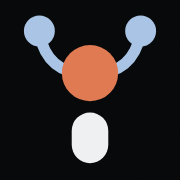
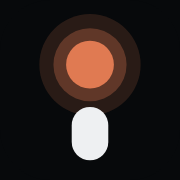
Loggan Glöd och tre teman (mörk, ljus, hacker) med temaväljare
- Loggan S2: i-pricken glöder, Nunito i ordbilden, färger från temat.
- Teman som CSS-variabler, satta före första målningen; valet sparas,
  annars följer sajten systemets ljust/mörkt. ADR 0009.

Claude-Session: https://claude.ai/code/session_01DCLyQTrk6wkc1PmiYpRkzH

Changed region(s): [[0.1111, 0.0556, 0.8889, 0.7222], [0.3889, 0.8056, 0.6111, 0.9167]]

diff --git a/apps/web/src/styles/global.css b/apps/web/src/styles/global.css
@@ -4,7 +4,9 @@
 @import '@fontsource/jetbrains-mono/400.css';
 
 /* Layout: en smal läskolumn (~68 tecken) under en filmisk 2,39:1-yta.
-   Samma mörka, kalla värld som filmen – ett varmt terrakotta används sparsamt. */
+   Tre teman (data-theme på <html>, sätts av ett skript i <head> före första målningen):
+   mörk (standard, samma kalla värld som filmen), ljus och hacker (grönt på svart, allt i mono).
+   Filmen, modulerna och spelen behåller sin mörka bildyta i alla teman, som en bioduk. */
 :root {
   color-scheme: dark;
   --bg: #07090b;
@@ -23,6 +25,43 @@
   --step-1: 1.25rem;
   --step-2: 1.6rem;
   --step-3: clamp(2rem, 5vw, 3.2rem);
+  --logo-ink: #eef0f2;
+  --logo-accent: #e07a52;
+  --logo-word: #a9c4e4;
+}
+:root[data-theme='ljus'] {
+  color-scheme: light;
+  --bg: #f6f3ee;
+  --surface: #ffffff;
+  --line: #e0dad0;
+  --ink: #1b2128;
+  --dim: #5a6470;
+  --cold: #355d8c;
+  --warm: #b4532f;
+  --logo-ink: #1b2128;
+  --logo-accent: #e07a52;
+  --logo-word: #355d8c;
+}
+:root[data-theme='hacker'] {
+  color-scheme: dark;
+  --bg: #020604;
+  --surface: #06110a;
+  --line: #123a1f;
+  --ink: #b6ffc8;
+  --dim: #4cc06c;
+  --cold: #3dff7f;
+  --warm: #ffb02e;
+  --font-sans: 'JetBrains Mono', 'IBM Plex Mono', ui-monospace, monospace;
+  --logo-ink: #b6ffc8;
+  --logo-accent: #3dff7f;
+  --logo-word: #3dff7f;
+}
+:root[data-theme='hacker'] body {
+  text-shadow: 0 0 6px rgba(61, 255, 127, 0.18);
+}
+:root[data-theme='hacker'] ::selection {
+  background: #3dff7f;
+  color: #020604;
 }
 
 * {

diff --git a/docs/adr/0009-teman.md b/docs/adr/0009-teman.md
@@ -1,0 +1,25 @@
+# 0009 – Tre teman: mörk, ljus och hacker
+
+- **Status:** beslutad
+- **Datum:** 2026-10-07
+
+## Sammanhang
+
+Sajten var bara mörk, som filmen. Alla besökare vill inte ha det, och skolor och dagsljus gynnar ett ljust tema.
+
+## Beslut
+
+- Tre teman sätts med `data-theme` på `<html>`: `mork` (standard), `ljus` och `hacker` (grönt på svart, allt i mono).
+  Färgerna är CSS-variabler i `apps/web/src/styles/global.css`, även loggans (`--logo-ink`, `--logo-accent`, `--logo-word`).
+- Ett litet skript i `<head>` (Base.astro) sätter temat före första målningen. Det använder sparat val
+  (`localStorage['ns-theme']`), och annars systemets ljust/mörkt. Knappen `ThemeToggle.astro` växlar
+  mörk → ljus → hacker och sparar valet.
+- Filmen, modulspelaren och spelen behåller sin mörka bildyta i alla teman, som en bioduk. Deras scener
+  ritar med motorns fasta palett.
+
+## Konsekvenser
+
+- Ny sidstil ska bara använda variablerna (`--bg`, `--surface`, `--line`, `--ink`, `--dim`, `--cold`, `--warm`),
+  aldrig hårdkodade färger.
+- Om modulernas scener ska följa temat senare behöver `PALETTE` i `engine/module/canvas.ts` läsas från temat.
+  Det är inte gjort.

diff --git a/docs/adr/0008-namn-ilearnai.md b/docs/adr/0008-namn-ilearnai.md
@@ -11,8 +11,8 @@ besökare, sökmotorer och AI-modeller.
 ## Beslut
 
 - Namn **iLearnAI**, domän **ilearnai.se**. Kortfilmen heter fortfarande NÄSTA STEG, och paketen `@nastasteg/*`.
-- Logga: märket är ett gement ”i” vars prick är en neuron (orange) med två mjukt böjda ingångar (ljusblå).
-  Ordbilden är satt i det rundade typsnittet Nunito 800 (”mjuk neuron”, S1 på designytan). Filer i
+- Logga: märket är ett gement ”i” vars prick glöder i mjuka ringar (”Glöd”, S2 på designytan).
+  Ordbilden är satt i det rundade typsnittet Nunito 800. Färgerna följer temat (ADR 0009). Filer i
   `apps/web/public`: `mark.svg`, `logo.svg`, `favicon.svg`, `apple-touch-icon.png` och delningsbilden `og.png`
   (1200 × 630). I sidhuvudet ritas loggan av `components/Logo.astro` i sajtens eget typsnitt.
 - Grundaren (Saman Akbarian) och sajtens fakta ligger i `SITE` (`apps/web/src/lib/site.ts`). De syns på

diff --git a/docs/DEVLOG.md b/docs/DEVLOG.md
@@ -5,6 +5,23 @@ Nyaste överst. En post per arbetspass. Skriv för nästa agent: **vad**, **varf
 
 ---
 
+## 2026-10-07 (7) – Loggan Glöd och tre teman
+
+**Vad**
+
+- Loggan är ”Glöd” (S2): i-pricken med två mjuka ringar och Nunito i ordbilden. Färgerna i `Logo.astro` kommer från
+  temat. Mark, favicon, logo.svg, apple-touch-icon och og.png är omgjorda.
+- Teman (ADR 0009): `mork`, `ljus` och `hacker` som CSS-variabler. Ett inline-skript i `<head>` sätter temat före
+  första målningen, och knappen `ThemeToggle.astro` växlar och sparar. På mobil ligger knappen bredvid loggan och
+  menyn på raden under.
+
+**Fällor**
+
+- Inline-skriptet i Base.astro lintas: `let`/`const` och `catch {}` med kommentar, annars blir `pnpm check` rött.
+- Filmen, modulerna och spelen är alltid mörka. Det är avsiktligt (ADR 0009).
+
+---
+
 ## 2026-10-07 (6) – Mjukare logga
 
 **Vad**

diff --git a/docs/STATUS.md b/docs/STATUS.md
@@ -40,7 +40,8 @@ _Uppdateras i slutet av varje arbetspass. Håll filen under ~50 rader._
 3. Driftsättning på **ilearnai.se** när domänen är köpt (Cloudflare Pages).
 4. Besöksstatistik utan kakor och delningsbilder (og:image).
 
-- Loggförslag (sex stycken) på en designyta: https://claude.ai/artifact/GyYAeyEsuZEHTN8KAcN1x7. Inget val gjort än.
+- Tre teman: mörk, ljus och hacker (ADR 0009). Knapp i sidhuvudet, valet sparas, annars följer sajten systemet.
+- Loggan är ”Glöd” (S2): ett i vars prick glöder. Loggförslag på designytan: https://claude.ai/artifact/GyYAeyEsuZEHTN8KAcN1x7.
 
 ## Kända problem och fällor
 
